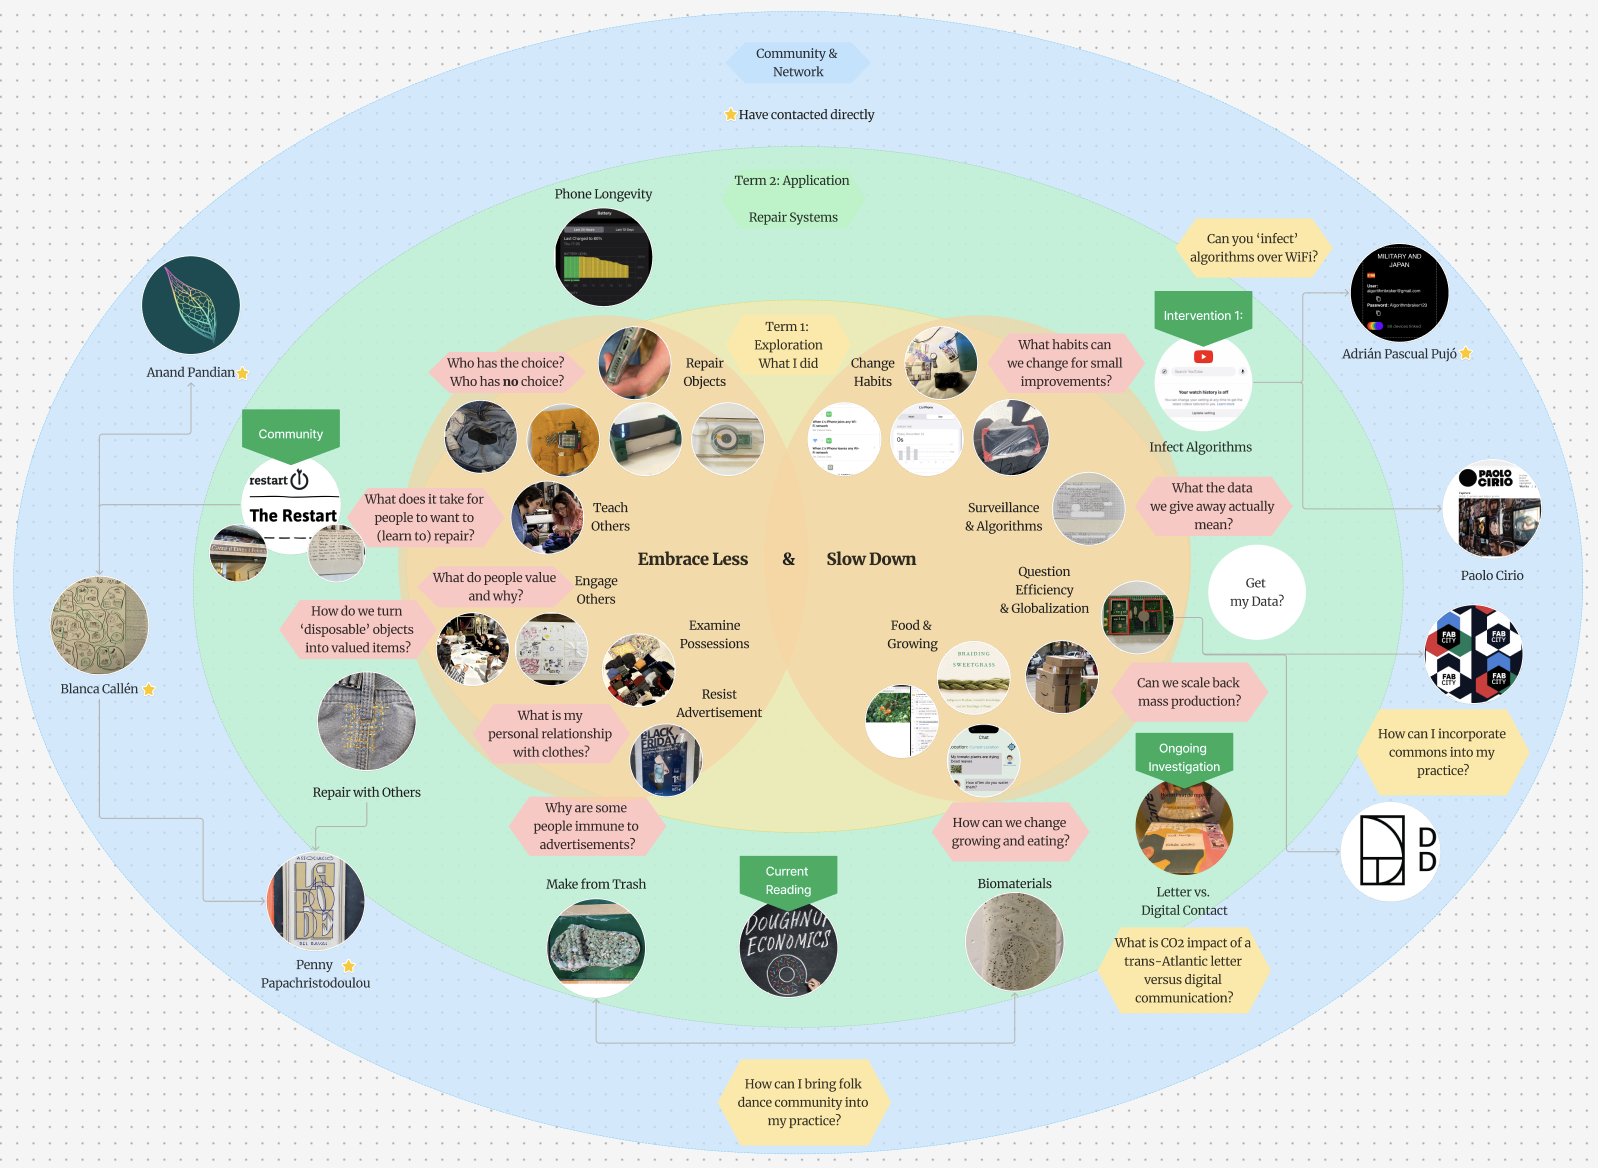
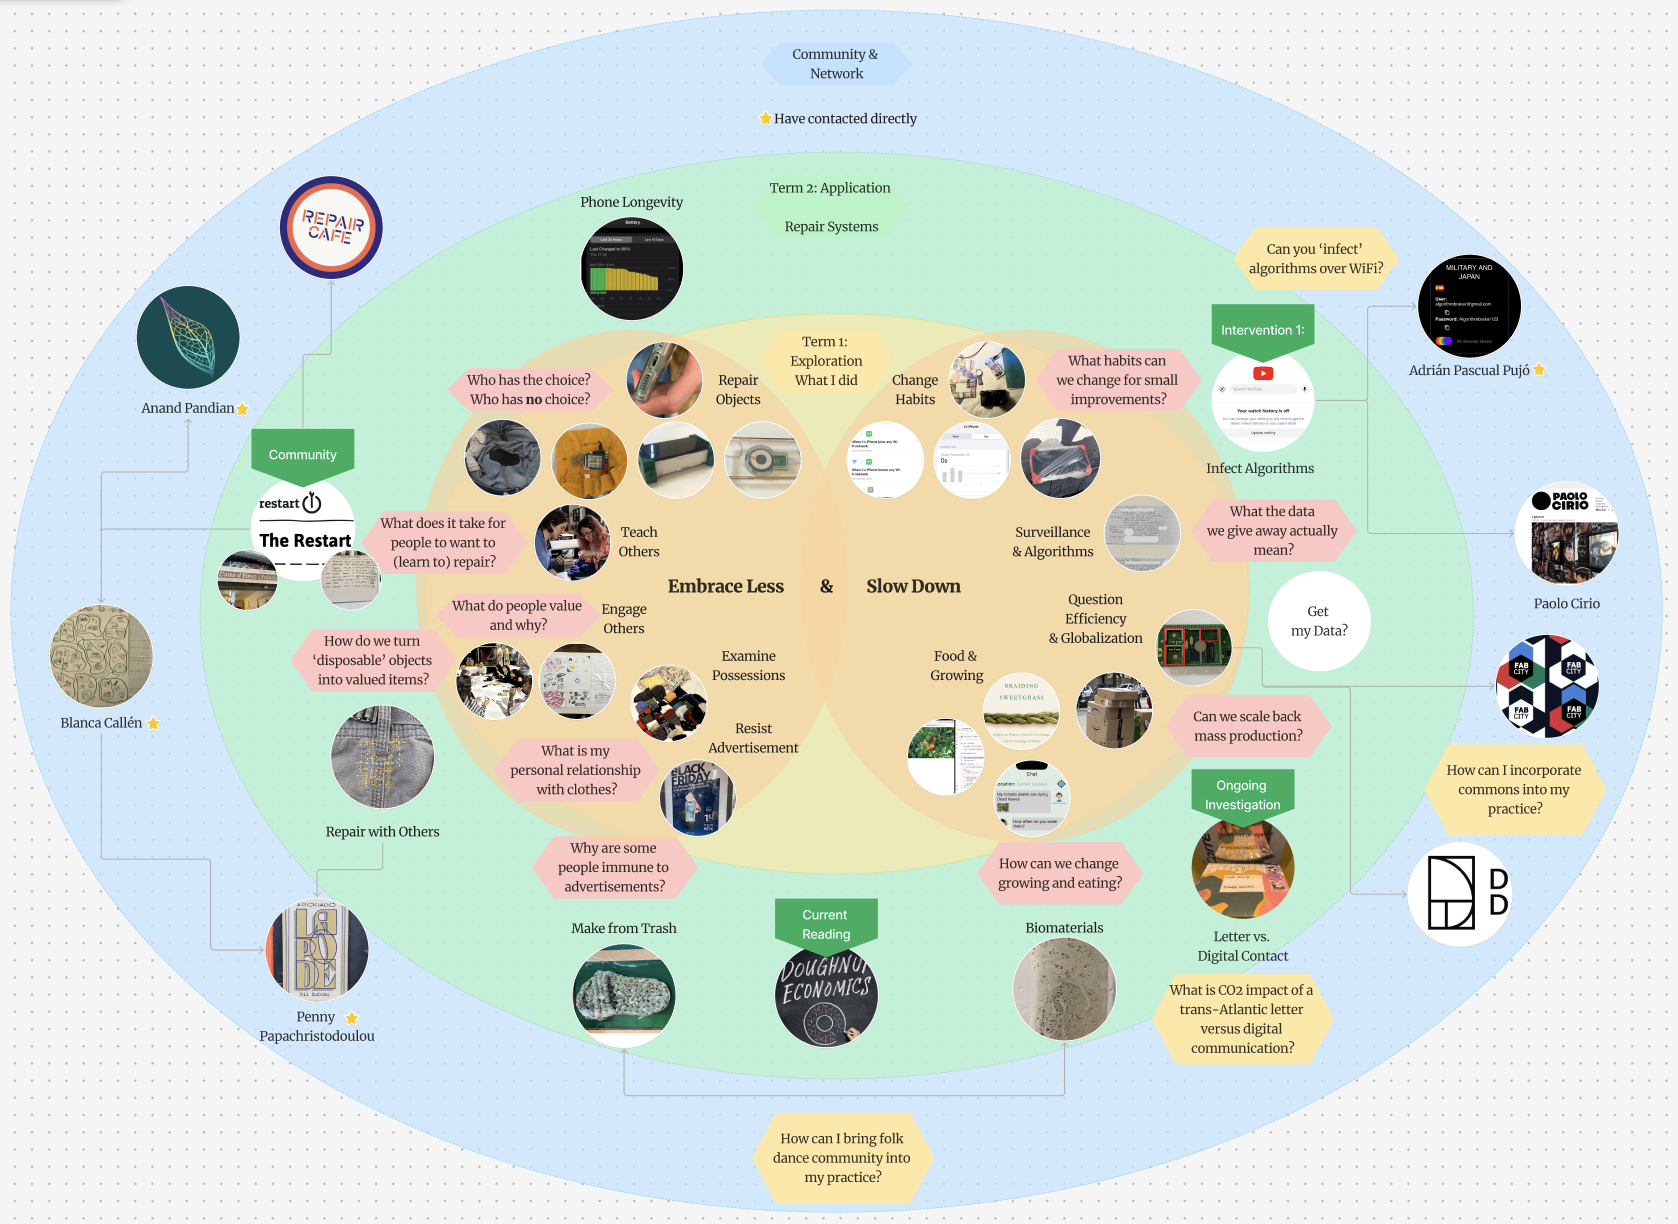
add network video

diff --git a/docs/term2/designStudio/design02WK02.md b/docs/term2/designStudio/design02WK02.md
@@ -163,6 +163,10 @@ I have recently started meeting with people involved in the various projects and
 
     * Many former contacts who I want to reach out to within the context of my MDEF project of uncovering blackboxes and repairing systems and products 
 
+The updates to my design space show the growing network and community I am building. This is a basic visualization of the conversations I have been having and the connections I am looking forward to forming as well. 
+
+![Design Space with Network](../../images/term2/designstudio/DesignSpaceOverview_08.png)    
+
 ### Folk Dance Community 
 
 An area of intervention that I have just started thinking about is the world of folk dance that has been an integral part of my life for all of it. I do not yet know exactly how this will manifest, but I hope to organize a dance workshop when my friend from the USA is in town to explore if this is an area of intervention that I want to commit to exploring more. 
